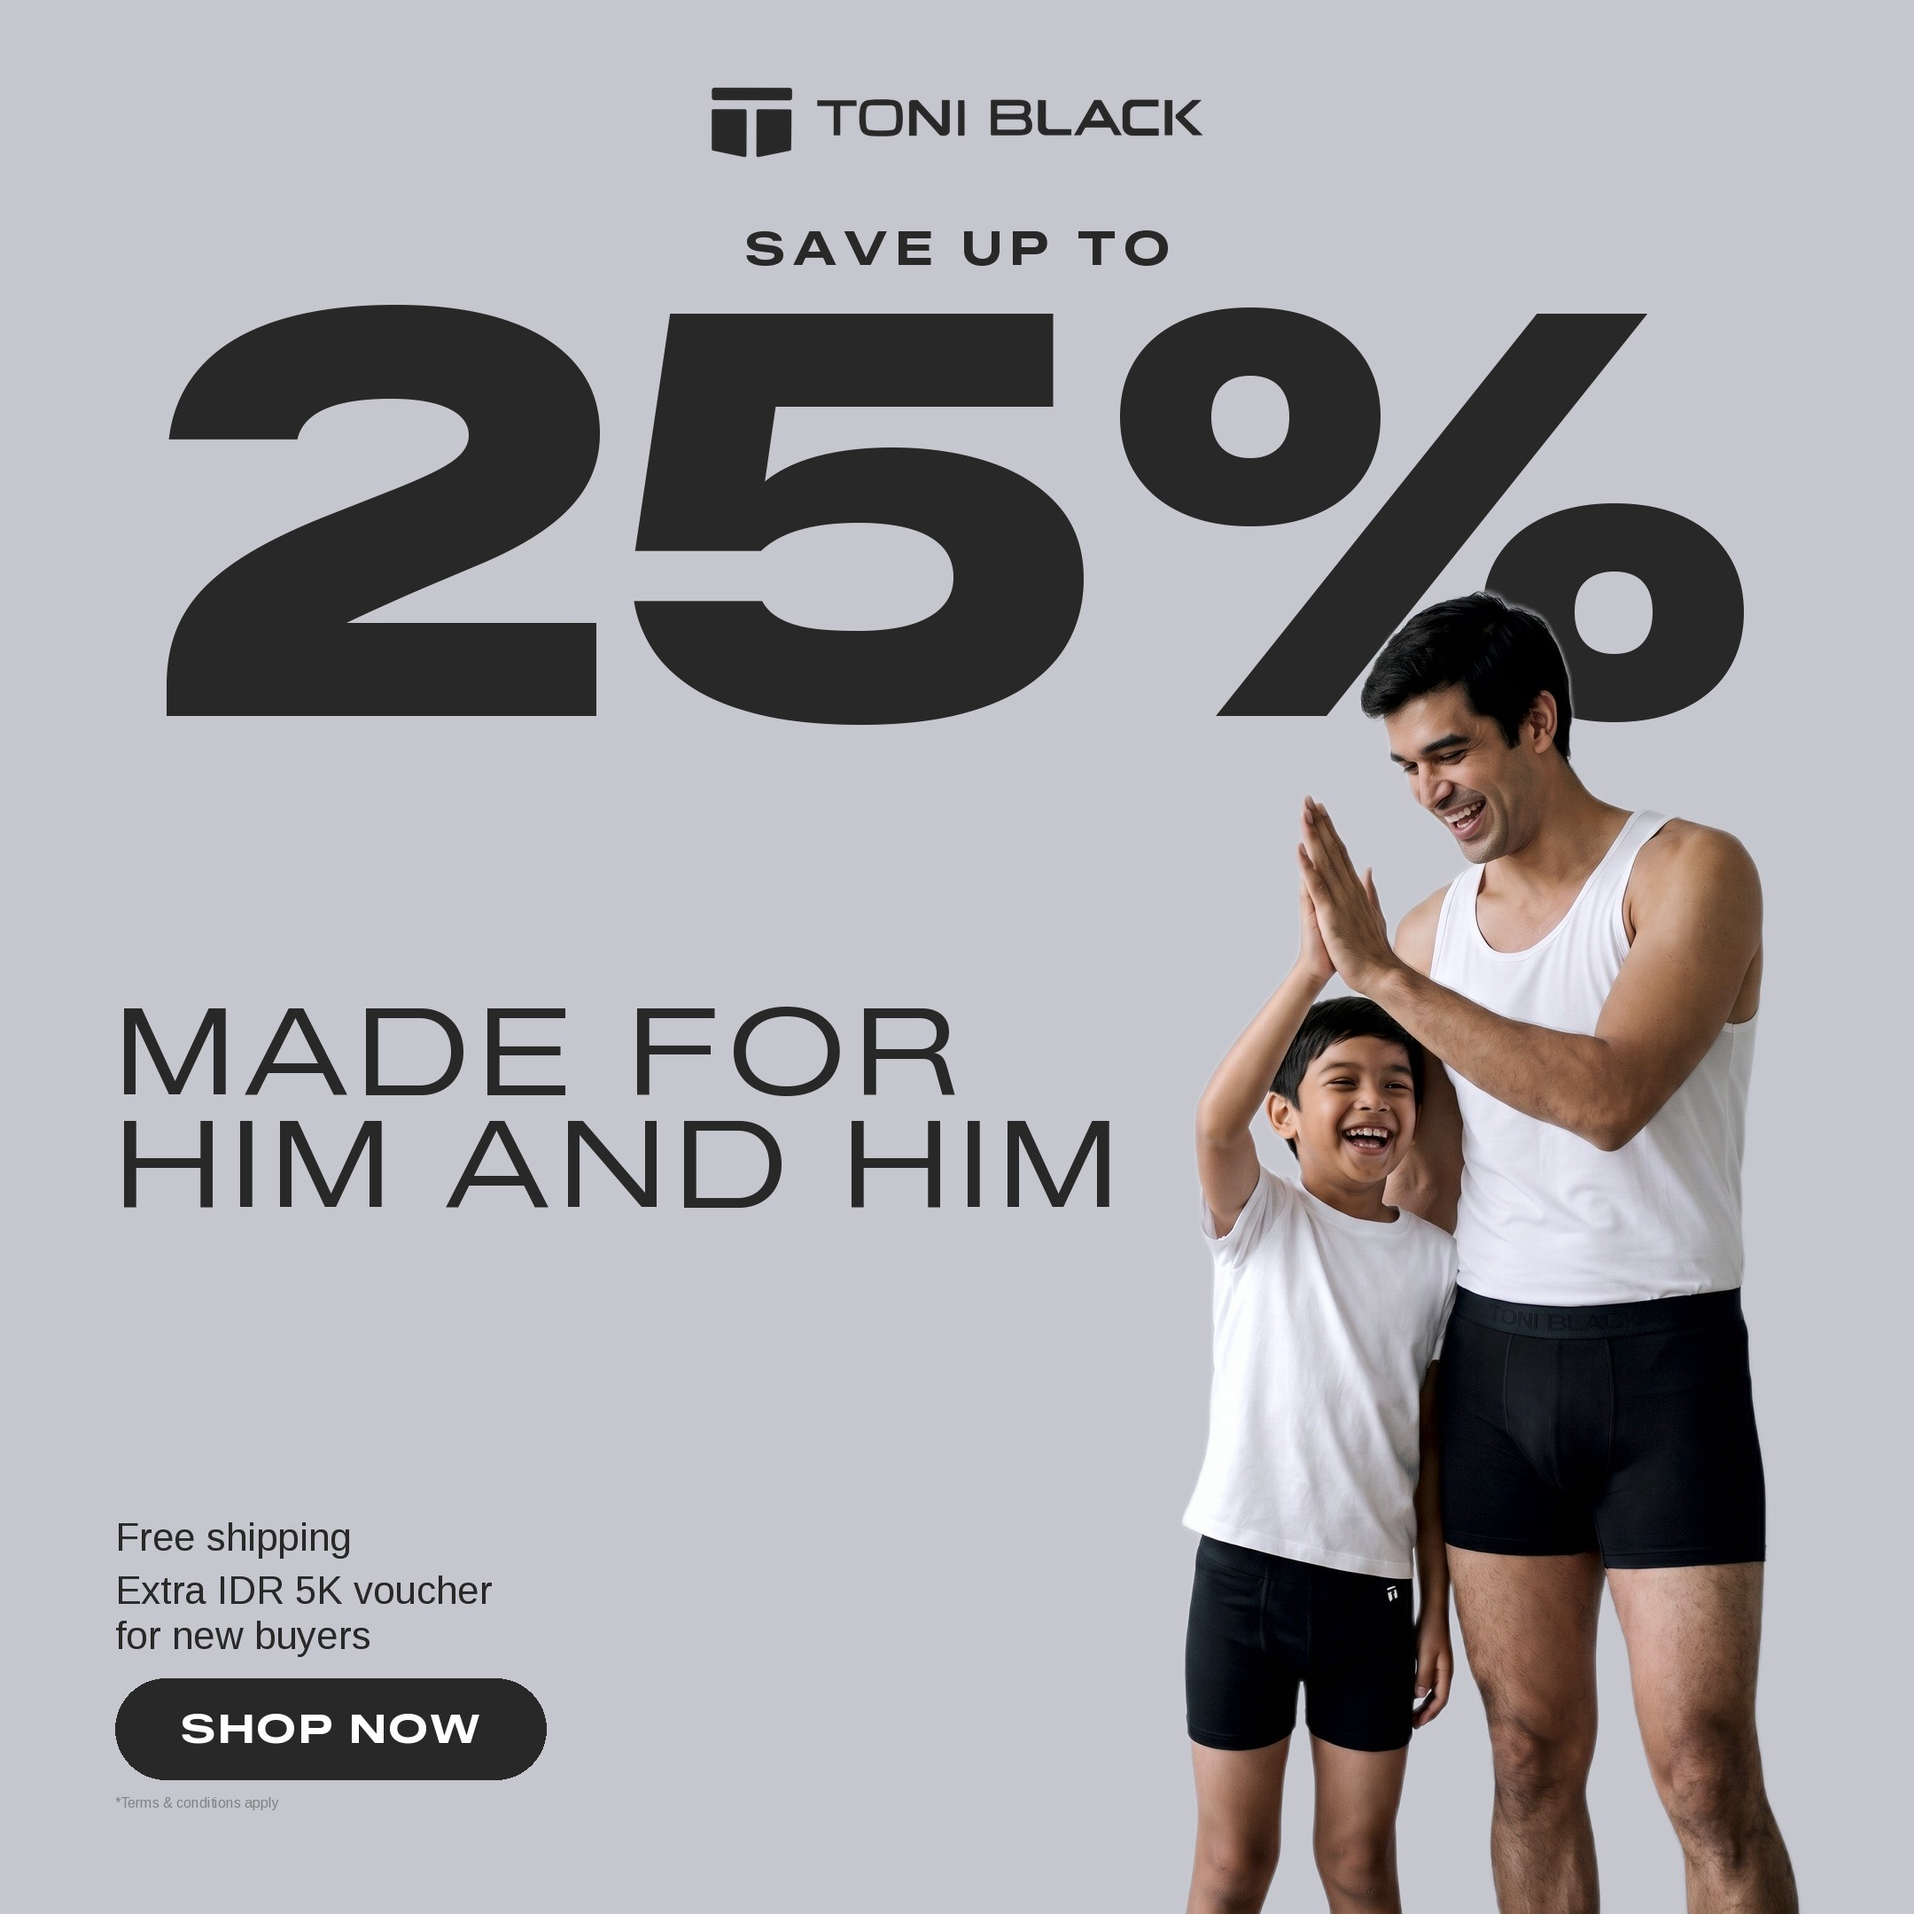
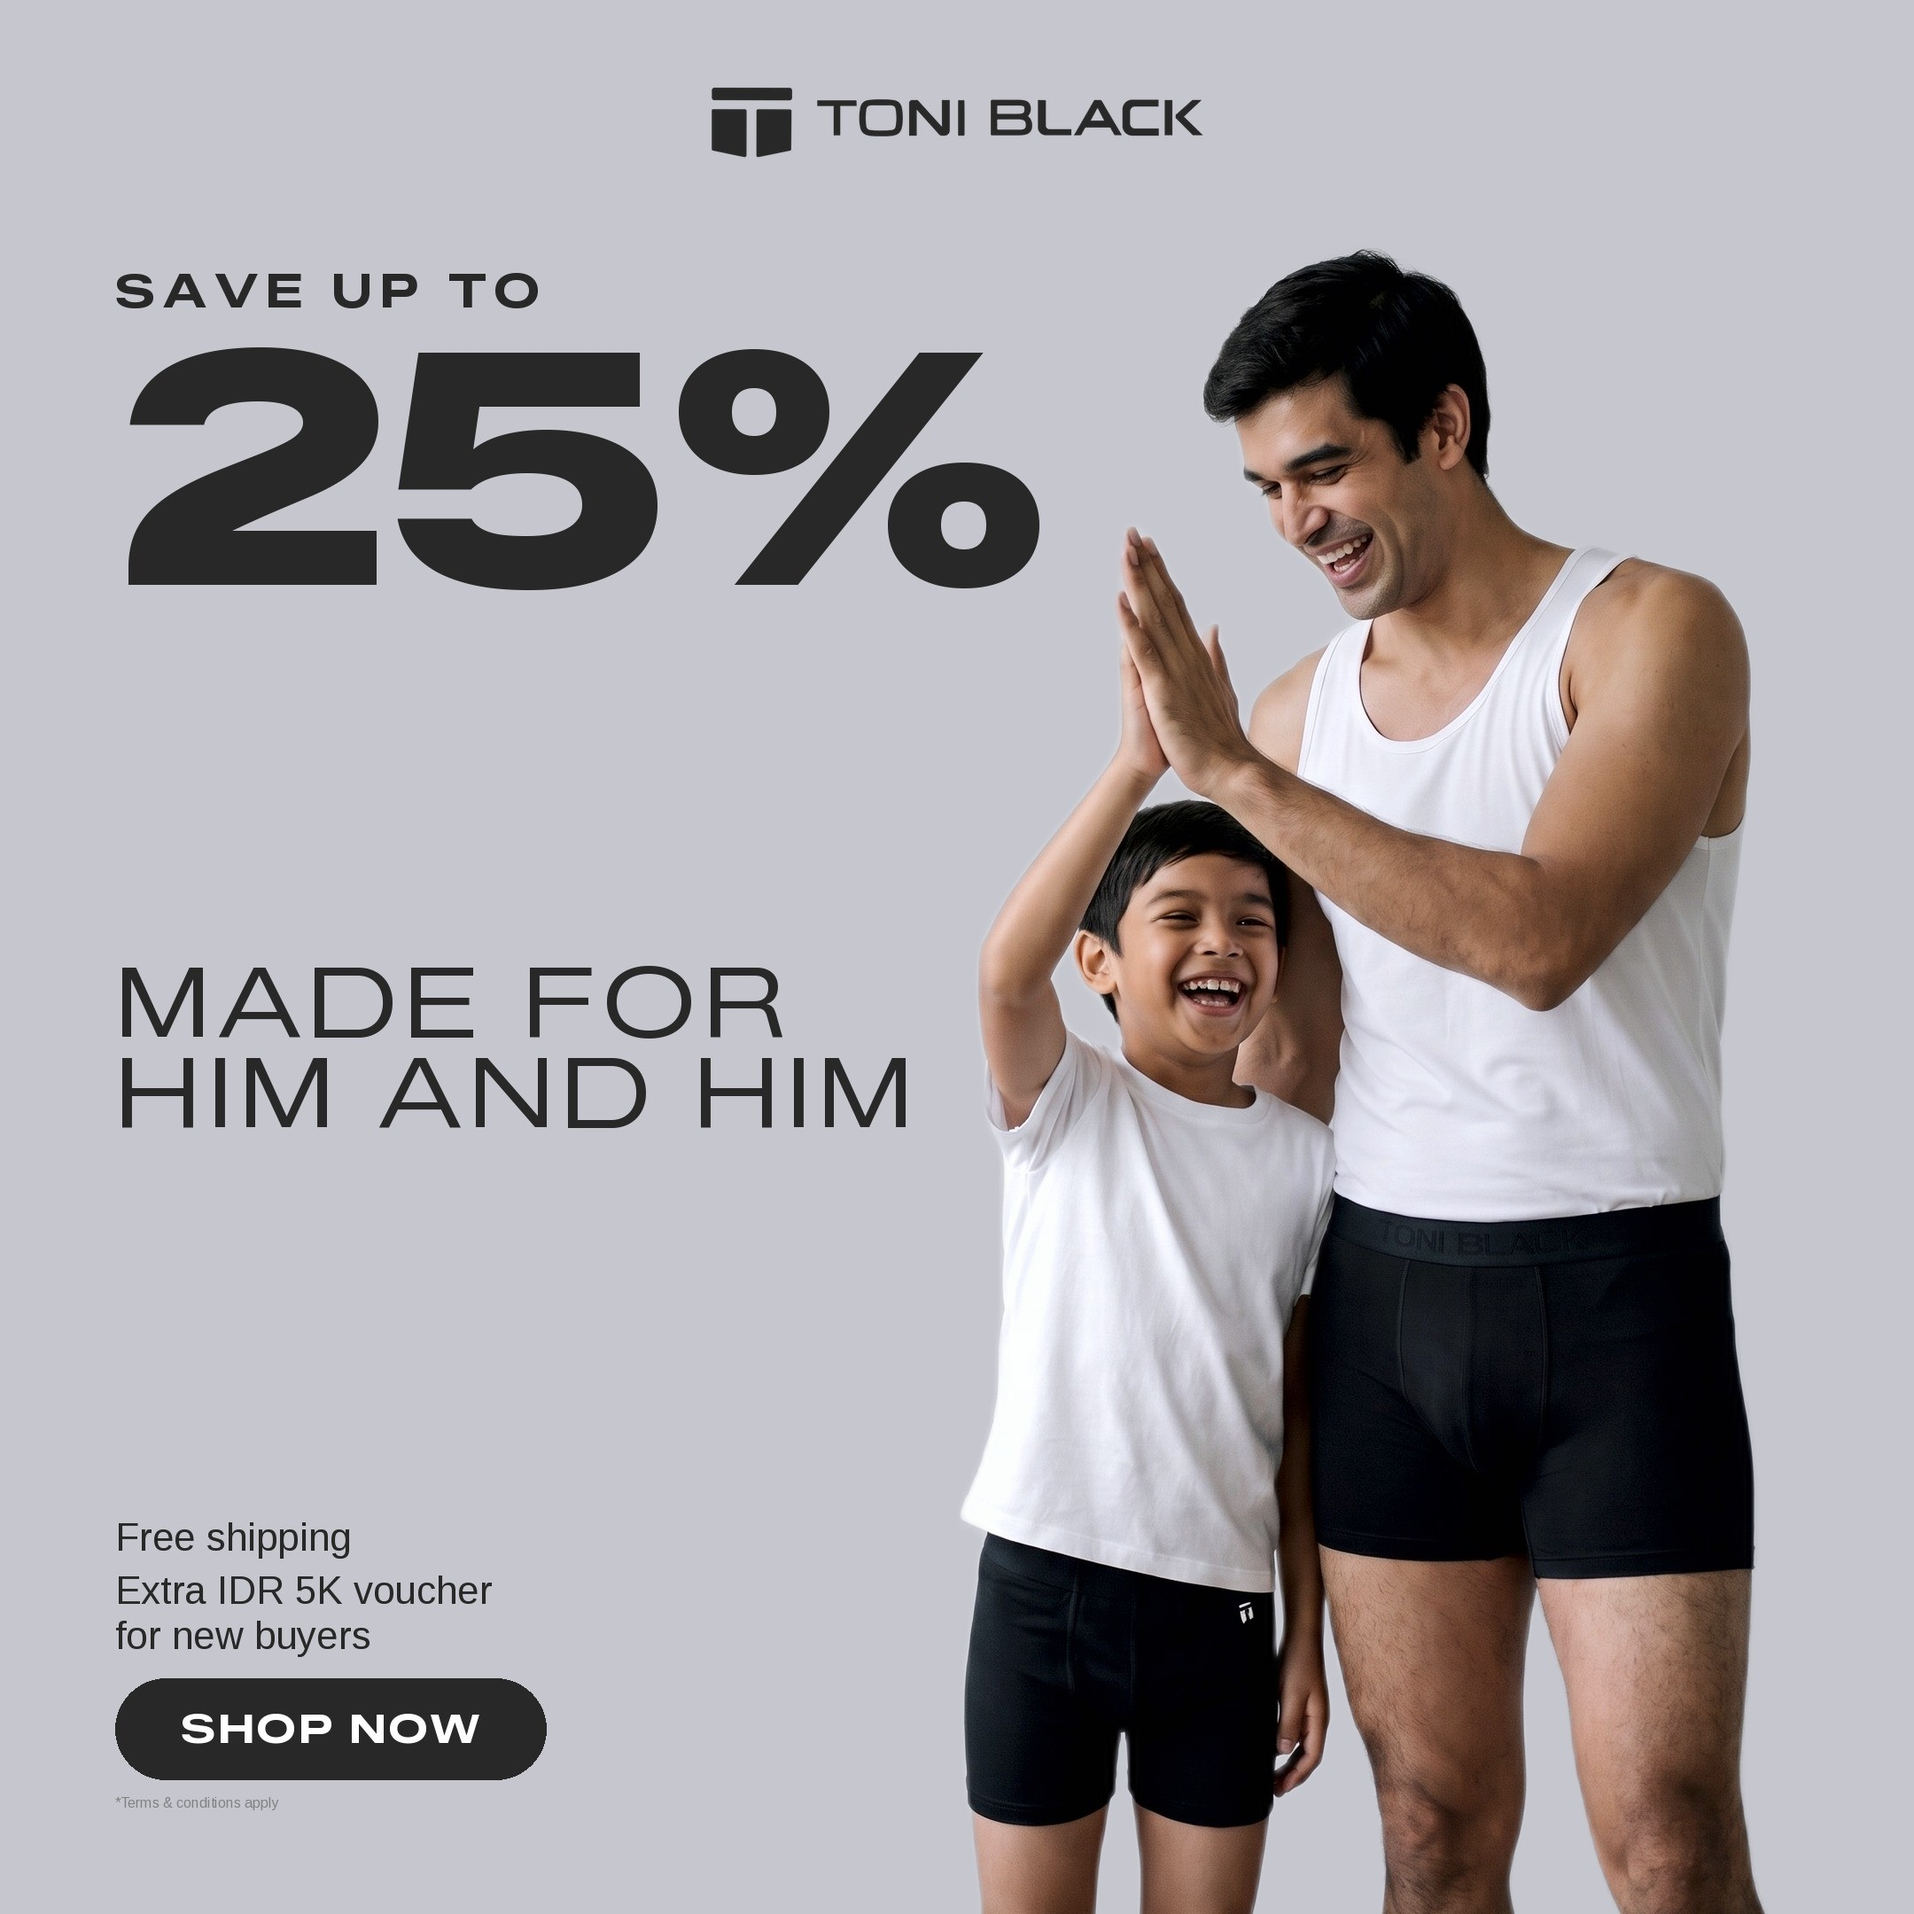
Him and Him 1:1: figures at full height, type in the left column
Claude-Session: https://claude.ai/code/session_01D9RBu3wL2qzNxzBzcGFuRs

diff --git a/banner-him-and-him-toni-black/scripts/compose_himhim_sq.py b/banner-him-and-him-toni-black/scripts/compose_himhim_sq.py
@@ -37,5 +37,39 @@ def build(photo,cutout,out,k=1,W=1080,H=1080,M=65,num_frac=0.85,kick=26,cover=0.
     rows_n=np.where(sub[num_top:num_bot].any(1))[0]; covered=(num_bot-(num_top+rows_n.min())) if len(rows_n) else 0
     print(f"{out}: 25% {num_top}-{num_bot} cap {cap}, heads cover {covered}px = {covered/cap:.0%} | pair x {pair_left}-{fx+cols.max()} | strip {strip} | headline {z}px x{len(lines)} {top}-{bot} | offer {ob}-{base} ben {ben}")
     cv.save(out,quality=92,optimize=True,progressive=True); return cv
+
+def build_big(photo,cutout,out,k=1,W=1080,H=1080,M=65,head_top=140,hem_src=2280,below_hem=44,clear=34):
+    """Square with the pair at full height (head just under the logo band, boy's boxer hem near the bottom edge),
+    right-aligned on the margin; all type in the left column: SAVE UP TO / 25% (largest that fits the free wall) /
+    MADE FOR / HIM AND HIM / offer block."""
+    g=lambda v:int(round(v*k)); W,H,M=W*k,H*k,M*k
+    src=graded(photo); alpha=Image.open(cutout).split()[3]
+    a=np.asarray(src)[...,:3]; wall=tuple(int(v) for v in np.percentile(a[:300,:400].reshape(-1,3),80,axis=0))
+    cv=Image.new("RGB",(W,H),wall)
+    am=np.asarray(alpha)>128; src_head=np.where(am.any(1))[0].min()
+    s=(H-g(below_hem)-g(head_top))/(hem_src-src_head); fw,fh=int(src.width*s+0.5),int(src.height*s+0.5)
+    fig=src.resize((fw,fh),Image.LANCZOS); fa=alpha.resize((fw,fh),Image.LANCZOS); fig.putalpha(fa); fam=np.asarray(fa)>128
+    cols=np.where(fam.any(0))[0]; fx=int(W-M-cols.max()); fy=g(head_top)-int(src_head*s); cv.paste(fig,(fx,fy),fig); d=ImageDraw.Draw(cv)
+    sub=np.zeros((H,W),bool); ys,xs=np.where(fam); yy=ys+fy; xx=xs+fx; ok=(yy>=0)&(yy<H)&(xx>=0)&(xx<W); sub[yy[ok],xx[ok]]=True
+    first=np.where(sub.any(1),sub.argmax(1),W); free=first-g(clear)-M
+    lg=make_logo(C282,8*k); lw=g(280); lg=lg.resize((lw,int(lg.height*lw/lg.width)),Image.LANCZOS)
+    lx=(W-lw)//2; assert not sub[g(48):g(48)+lg.height,lx:lx+lw].any(), "logo touches the figures"
+    cv.paste(lg,(lx,g(48)),lg)
+    # left column
+    fk=font("ZalandoSansExpanded-Bold.ttf",g(26)); kb=cb(d,"SAVE UP TO",fk); yk=g(48)+lg.height+g(64)
+    tracked(d,(M-kb[0],yk-kb[1]),"SAVE UP TO",fk,C282,g(26)*0.17); y3=yk+(kb[3]-kb[1])+g(22)
+    for sz in range(g(500),g(40),-g(2)):
+        fn=font("ZalandoSansExpanded-Black.ttf",sz); nb=cb(d,"25%",fn); w=tw(d,"25%",fn,-0.02*sz); h=nb[3]-nb[1]
+        if free[y3:y3+h].min()>=w: break
+    tracked(d,(M-nb[0],y3-nb[1]),"25%",fn,C282,-0.02*sz); y3e=y3+h
+    ben=g(22); base=H-int(M*0.9); ob,_=offer(d,M,base,ben,int(ben*2.6),ben+1)
+    lines=("MADE FOR","HIM AND HIM"); top=y3e+g(64); bot=ob-g(64); strip=int(free[top:bot].min())
+    z=min(fit(d,t,"ZalandoSansExpanded-Regular.ttf",strip,0.08,hi=400) for t in lines); fh_=font("ZalandoSansExpanded-Regular.ttf",z); c=cb(d,"H",fh_); ch=c[3]-c[1]; lead=int(ch*1.30)
+    hy=int((top+bot)/2-(ch+lead)/2)
+    for t in lines: tracked(d,(M-cb(d,t,fh_)[0],hy-c[1]),t,fh_,C282,z*0.08); hy+=lead
+    pair=np.where(sub.any(0))[0]
+    print(f"{out}: pair {pair.min()}-{pair.max()} ({(pair.max()-pair.min())/W:.0%} W), {H-g(head_top)}px tall | 25% cap {h} w {w:.0f} at {y3}-{y3e} | headline {z}px | offer {ob}-{base}")
+    cv.save(out,quality=92,optimize=True,progressive=True); return cv
+
 if __name__=="__main__":
-    a=sys.argv; build(a[1],a[2],a[3],k=int(a[4]) if len(a)>4 else 1)
+    a=sys.argv; (build_big if "--big" in a else build)(a[1],a[2],a[3],k=int(a[4]) if len(a)>4 and not a[4].startswith("--") else 1)

diff --git a/banner-him-and-him-toni-black/README.md b/banner-him-and-him-toni-black/README.md
@@ -32,3 +32,6 @@ Brief: no large empty areas. With a knee crop and both products in frame, the pa
 
 ## 1:1 of the v6 banner (`final/TONI-BLACK_Him-and-Him_1080x1080.jpg/.png`, retina `2160x2160`)
 Replaces the old v3 square. `scripts/compose_himhim_sq.py PHOTO CUTOUT OUT [k]` with `final/photo_generated.jpg` and its cutout: the v6 system re-set for a square. Logo and `SAVE UP TO` centred on top, `25%` Zalando Black at 85% of the width (cap 237) behind the heads, which come down 32% of its cap; the pair right-aligned on the margin and knee-framed at the bottom edge, both boxers in frame; left column (569 px) with the headline `MADE FOR` / `HIM AND HIM` (Zalando Regular 68, tracked 8%, broken by sense: the square has no height for the five-word stack and a three-line break leaves `HIM AND` hanging) centred between the number and the offer block (Arimo 22 benefits, SHOP NOW pill, terms). Ad headline and primary text: `ad_copy.md`.
+
+### 1:1 revision: figures at full height (`compose_himhim_sq.py ... --big`, final)
+With 25% across the top, the pair could only be 32% of the square wide (the number takes the top half and the boy's boxer must stay in frame), which read as too small. Now the pair fills the height: head 140 px from the top (clear of the logo's exclusion zone), the boy's boxer hem 44 px above the bottom edge, right-aligned on the margin, 42% of the width and 940 px tall. All type moves to the left column: `SAVE UP TO`, `25%` (the largest that fits the free wall above the boy's raised hands: cap 137, 530 wide), `MADE FOR` / `HIM AND HIM` (Regular 54), offer block at the bottom. The number no longer sits behind the heads.
